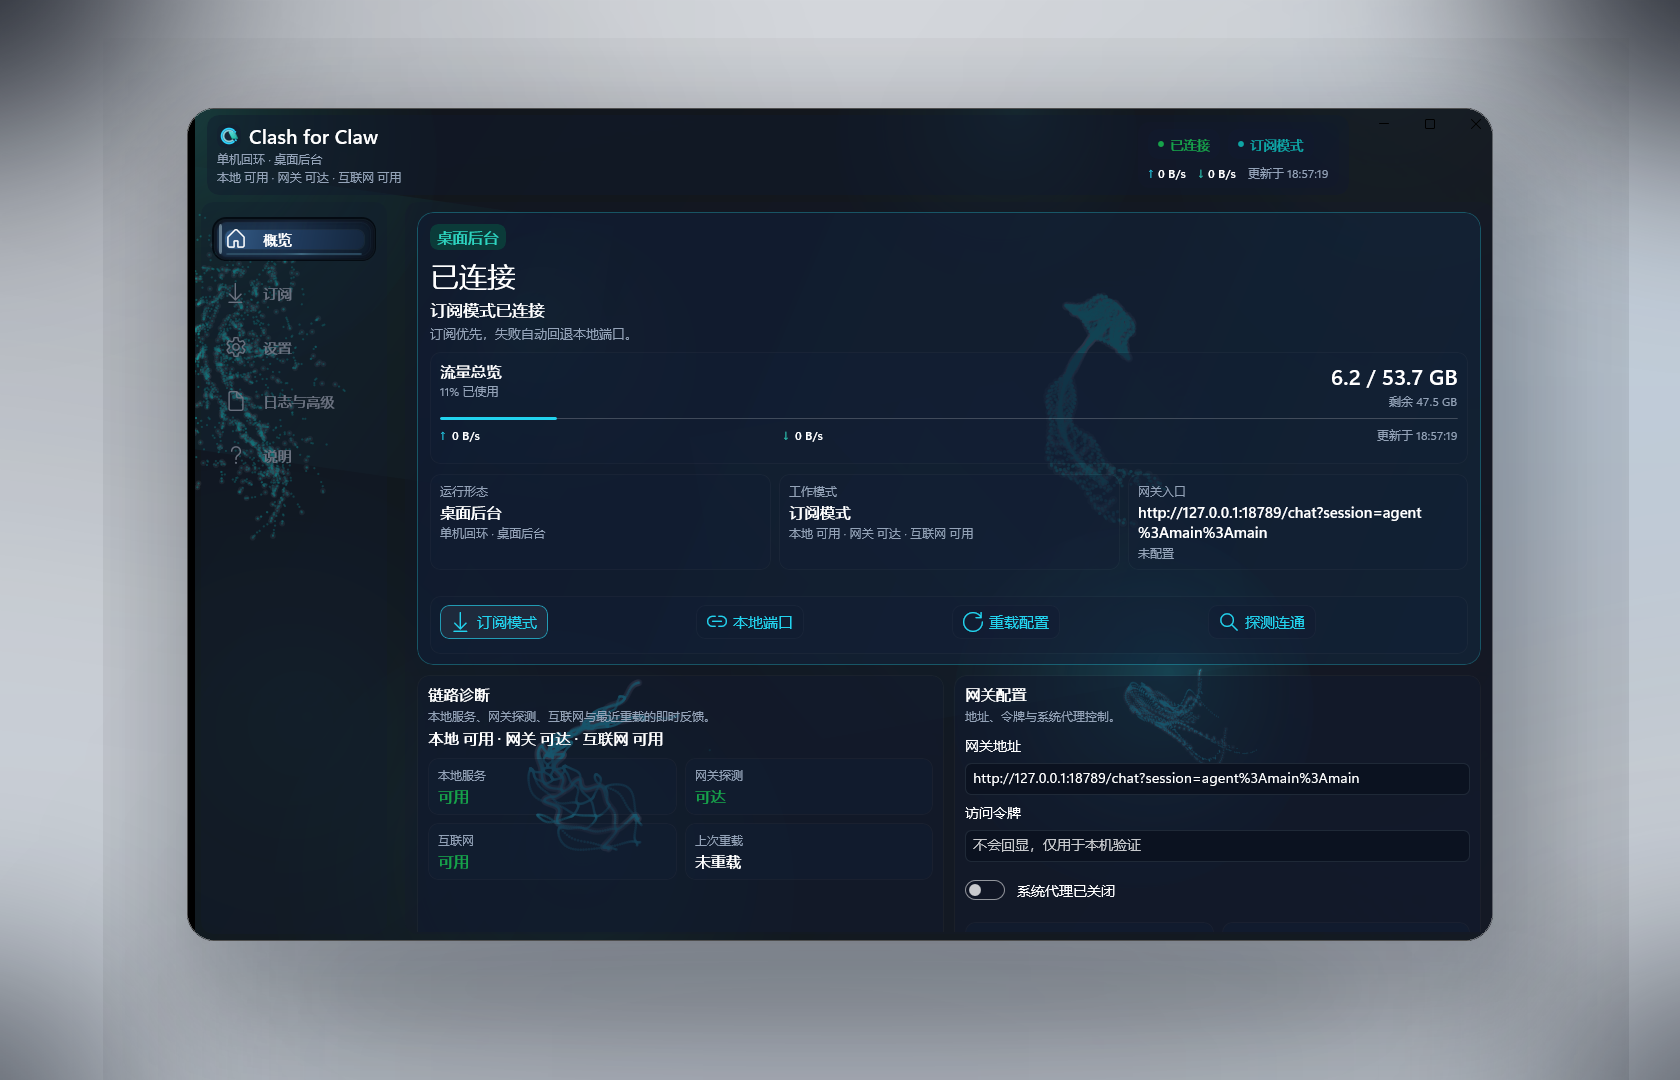
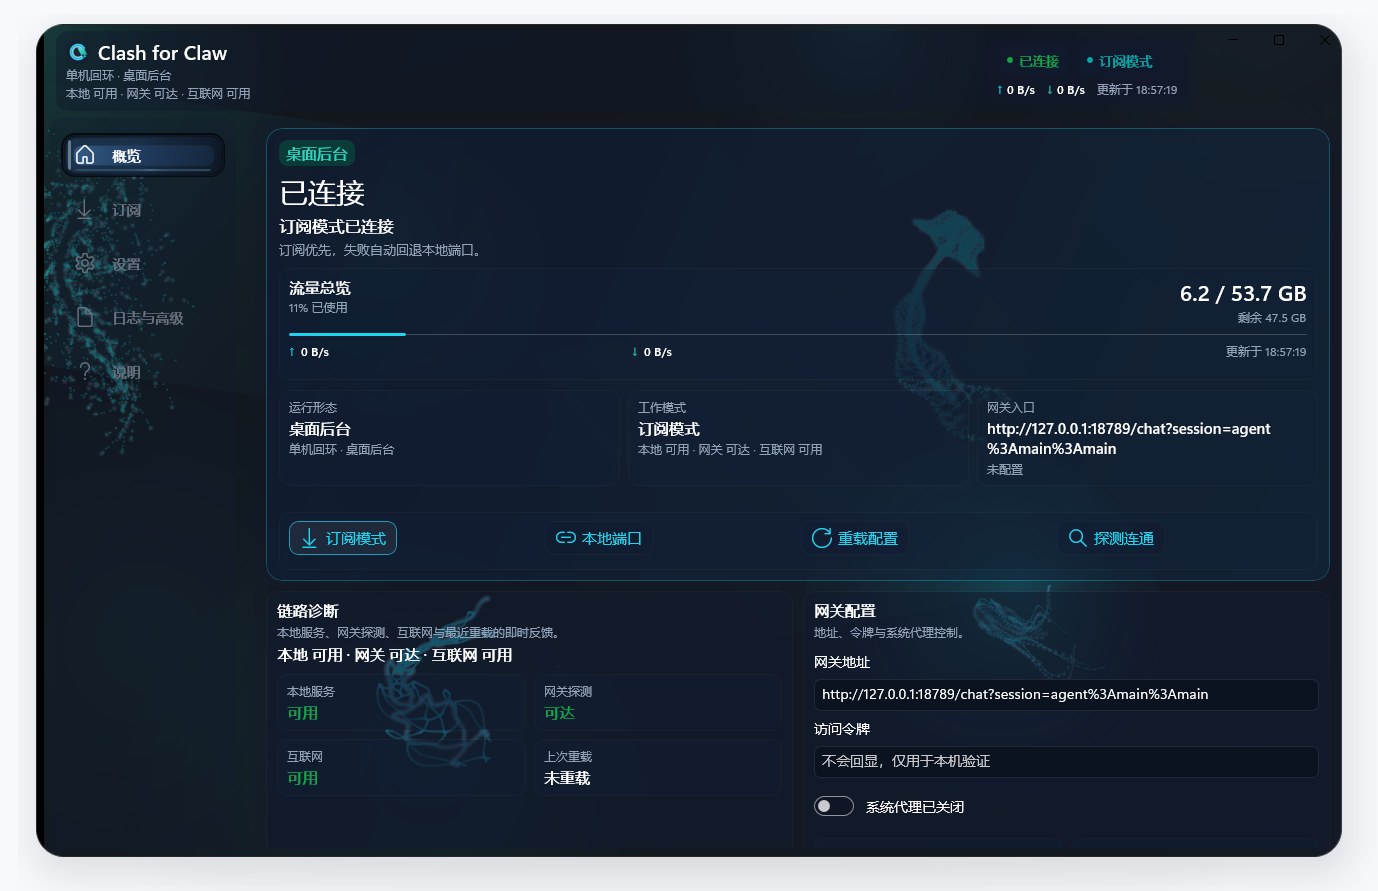
Refine README presentation

diff --git a/scripts/build-readme-hero.py b/scripts/build-readme-hero.py
@@ -1,13 +1,15 @@
 from pathlib import Path
 
-from PIL import Image, ImageChops, ImageDraw, ImageFilter
+from PIL import Image, ImageDraw, ImageFilter
 
 
 REPO_ROOT = Path(__file__).resolve().parent.parent
 SOURCE = REPO_ROOT / "artifacts" / "readme-window-raw.png"
 TARGET = REPO_ROOT / "docs" / "readme-hero.png"
-CANVAS_SIZE = (1680, 1080)
 WINDOW_RADIUS = 28
+SIDE_MARGIN = 36
+TOP_MARGIN = 24
+BOTTOM_MARGIN = 34
 
 
 def rounded_mask(size: tuple[int, int], radius: int, scale: int = 4) -> Image.Image:
@@ -16,58 +18,6 @@ def rounded_mask(size: tuple[int, int], radius: int, scale: int = 4) -> Image.Im
     draw = ImageDraw.Draw(mask)
     draw.rounded_rectangle((0, 0, mask.width - 1, mask.height - 1), radius=radius * scale, fill=255)
     return mask.resize(size, Image.Resampling.LANCZOS)
-
-
-def gradient_background(size: tuple[int, int]) -> Image.Image:
-    width, height = size
-    base = Image.new("RGBA", size, "#f4f7fb")
-
-    top = Image.new("RGBA", size, (0, 0, 0, 0))
-    top_pixels = top.load()
-    for y in range(height):
-        ratio = y / max(height - 1, 1)
-        r = int(244 - (ratio * 18))
-        g = int(247 - (ratio * 14))
-        b = int(251 - (ratio * 10))
-        for x in range(width):
-            top_pixels[x, y] = (r, g, b, 255)
-
-    base = Image.alpha_composite(base, top)
-
-    for bbox, color, blur in [
-        ((-120, -40, 640, 520), (16, 24, 40, 32), 120),
-        ((1040, 40, 1760, 760), (24, 144, 255, 20), 140),
-        ((240, 700, 1340, 1260), (15, 23, 42, 16), 150),
-    ]:
-        layer = Image.new("RGBA", size, (0, 0, 0, 0))
-        draw = ImageDraw.Draw(layer)
-        draw.ellipse(bbox, fill=color)
-        base = Image.alpha_composite(base, layer.filter(ImageFilter.GaussianBlur(blur)))
-
-    vignette = Image.new("L", size, 0)
-    draw = ImageDraw.Draw(vignette)
-    draw.ellipse((-200, -160, width + 200, height + 220), fill=220)
-    vignette = ImageChops.invert(vignette).filter(ImageFilter.GaussianBlur(100))
-    shade = Image.new("RGBA", size, (8, 12, 22, 34))
-    base = Image.composite(shade, base, vignette)
-    return base
-
-
-def layered_shadow(window_size: tuple[int, int], radius: int) -> Image.Image:
-    shadow_canvas = Image.new("RGBA", (window_size[0] + 220, window_size[1] + 220), (0, 0, 0, 0))
-
-    for offset, color, blur, spread in [
-        ((80, 96), (9, 15, 26, 44), 48, 46),
-        ((86, 104), (9, 15, 26, 26), 82, 78),
-        ((84, 136), (9, 15, 26, 14), 120, 132),
-    ]:
-        mask = rounded_mask((window_size[0] + spread, window_size[1] + spread), radius + (spread // 8))
-        layer = Image.new("RGBA", mask.size, color)
-        pasted = Image.new("RGBA", shadow_canvas.size, (0, 0, 0, 0))
-        pasted.paste(layer, offset, mask)
-        shadow_canvas = Image.alpha_composite(shadow_canvas, pasted.filter(ImageFilter.GaussianBlur(blur)))
-
-    return shadow_canvas
 
 
 def build_window_card(window: Image.Image) -> Image.Image:
@@ -80,34 +30,54 @@ def build_window_card(window: Image.Image) -> Image.Image:
     draw.rounded_rectangle(
         (0, 0, window.size[0] - 1, window.size[1] - 1),
         radius=WINDOW_RADIUS,
-        outline=(255, 255, 255, 78),
+        outline=(255, 255, 255, 40),
         width=1,
     )
-
     return Image.alpha_composite(clipped, frame)
+
+
+def build_shadow(window_size: tuple[int, int], radius: int) -> Image.Image:
+    shadow_canvas = Image.new("RGBA", (window_size[0] + 72, window_size[1] + 72), (0, 0, 0, 0))
+
+    for offset, color, blur, spread in [
+        ((16, 18), (8, 12, 20, 18), 14, 10),
+        ((16, 18), (8, 12, 20, 8), 24, 24),
+    ]:
+        mask = rounded_mask((window_size[0] + spread, window_size[1] + spread), radius + 2)
+        layer = Image.new("RGBA", mask.size, color)
+        pasted = Image.new("RGBA", shadow_canvas.size, (0, 0, 0, 0))
+        pasted.paste(layer, offset, mask)
+        shadow_canvas = Image.alpha_composite(shadow_canvas, pasted.filter(ImageFilter.GaussianBlur(blur)))
+
+    return shadow_canvas
 
 
 def main() -> None:
     if not SOURCE.exists():
         raise FileNotFoundError(f"raw capture not found: {SOURCE}")
 
-    canvas = gradient_background(CANVAS_SIZE)
     window = Image.open(SOURCE).convert("RGBA")
+    canvas_size = (
+        window.size[0] + (SIDE_MARGIN * 2),
+        window.size[1] + TOP_MARGIN + BOTTOM_MARGIN,
+    )
+    canvas = Image.new("RGBA", canvas_size, (247, 249, 252, 255))
+
     card = build_window_card(window)
+    shadow = build_shadow(window.size, WINDOW_RADIUS)
 
-    x = (CANVAS_SIZE[0] - window.size[0]) // 2
-    y = 108
+    x = SIDE_MARGIN
+    y = TOP_MARGIN
 
-    shadow = layered_shadow(window.size, WINDOW_RADIUS)
-    canvas.alpha_composite(shadow, (x - 84, y - 70))
+    canvas.alpha_composite(shadow, (x - 18, y - 10))
 
-    floor_shadow = Image.new("RGBA", CANVAS_SIZE, (0, 0, 0, 0))
+    floor_shadow = Image.new("RGBA", canvas_size, (0, 0, 0, 0))
     draw = ImageDraw.Draw(floor_shadow)
     draw.ellipse(
-        (x + 120, y + window.size[1] - 10, x + window.size[0] - 120, y + window.size[1] + 104),
-        fill=(12, 18, 28, 22),
+        (x + 110, y + window.size[1] - 2, x + window.size[0] - 110, y + window.size[1] + 28),
+        fill=(10, 14, 22, 10),
     )
-    floor_shadow = floor_shadow.filter(ImageFilter.GaussianBlur(34))
+    floor_shadow = floor_shadow.filter(ImageFilter.GaussianBlur(14))
     canvas = Image.alpha_composite(canvas, floor_shadow)
 
     canvas.alpha_composite(card, (x, y))

diff --git a/README.md b/README.md
@@ -3,8 +3,8 @@
 <div align="center">
   <img src="Assets/ClashForClaw-icon-preview.png" alt="Clash for Claw icon" width="88" />
 
-  <p><strong>给 OpenClaw / Claw 准备的本地代理控制端</strong></p>
-  <p>下载一个安装包，填几项必要参数，就能把订阅入口、后台驻留和状态可视化收进一个 Windows 应用里。</p>
+  <p><strong>面向 OpenClaw / Claw 链路的本地代理控制端</strong></p>
+  <p>将订阅入口、后台驻留和链路状态收拢到一个可直接交付的 Windows 安装程序中。</p>
 
   <p>
     <a href="https://github.com/KeyanHu-git/Clash-for-Claw/releases">
@@ -22,68 +22,82 @@
   <img src="docs/readme-hero.png" alt="Clash for Claw overview" width="920" />
 </p>
 
-## 怎么下载
+## 发布形式
 
-- 普通用户直接去 [Releases](https://github.com/KeyanHu-git/Clash-for-Claw/releases) 下载 `Clash-for-Claw-x.y.z-setup.exe`
-- 正式交付物就是安装版 `.exe`，不是让用户自己进文件夹找一堆可执行文件
-- 安装包默认已经带好桌面端、后台组件和 `mihomo.exe`
-- 安装完成后，启动 `Clash for Claw`，按下面几项配置即可开始用
+- 正式发布物为安装版 `Clash-for-Claw-x.y.z-setup.exe`
+- 安装包默认包含桌面端、后台组件与 `mihomo.exe`
+- `portable.zip` 仅保留给手动部署或调试场景
 
 当前公开版本：[`v0.1.2`](https://github.com/KeyanHu-git/Clash-for-Claw/releases/tag/v0.1.2)
 
-## 第一次启动要配什么
+## 为什么做这个事情
 
-第一次使用，通常只需要看 3 组参数：
+OpenClaw / Claw 在 Windows 环境中运行时，链路稳定性往往不取决于模型本身，而取决于宿主机是否具备一个长期可用、可观察、可维护的本地代理入口。
+
+如果这一层缺失，常见问题会混在一起出现：
+
+- 订阅入口与本地端口切换缺少统一控制
+- 后台驻留、开机启动和静默运行缺少稳定承载
+- 网关可达性、互联网连通性和流量状态缺少直观反馈
+
+`Clash for Claw` 的定位不是修改 OpenClaw 仓库本身，而是在其外部提供一层独立的本地控制面：
+
+- 前台负责配置、状态确认和可视化反馈
+- 后台负责静默运行、驻留和服务化
+- 代理入口与 OpenClaw 仓库保持解耦，便于后续独立更新
+
+## 首次配置
+
+首次启动通常只需要完成 3 组参数：
 
 1. `网关地址`
    OpenClaw / Claw 网关地址。  
-   如果网关就在本机，通常可先试 `http://127.0.0.1:18789`。
+   如果网关就在本机，通常可以先试 `http://127.0.0.1:18789`。
 
 2. `访问令牌`
-   用于访问网关的令牌。  
-   如果你的 OpenClaw 侧启用了鉴权，把对应 token 粘贴进来即可。
+   网关鉴权令牌。  
+   如果 OpenClaw 侧启用了鉴权，将对应 token 粘贴到此处即可。
 
 3. `入口模式`
    二选一即可：
    - `订阅模式`：在“订阅”页粘贴订阅 URL，这是默认推荐方式
-   - `本地端口`：如果你本机已经有现成代理入口，就在“设置”里填本地端口，默认是 `7890`
+   - `本地端口`：如果本机已经存在现成代理入口，可在“设置”页填写本地端口，默认是 `7890`
 
-## 最短上手流程
+## 快速接入
 
-1. 安装并启动 `Clash for Claw`
-2. 在首页填好 `网关地址` 和 `访问令牌`
-3. 打开“订阅”页，粘贴订阅 URL
-4. 点击“下载订阅”，再切回订阅模式
-5. 首页看到“本地可用 / 网关可达 / 互联网可用”后，就说明链路已经通了
+1. 下载并安装 `setup.exe`
+2. 启动 `Clash for Claw`
+3. 在首页填写 `网关地址` 和 `访问令牌`
+4. 打开“订阅”页，粘贴订阅 URL
+5. 点击“下载订阅”，再切回订阅模式
+6. 首页出现“本地可用 / 网关可达 / 互联网可用”后，即表示链路已经连通
 
-## 订阅一般怎么买
+## 订阅来源
 
-一般不是在这个项目里买，而是去购买一个明确支持 `Clash` / `Mihomo` 订阅链接的代理服务。
+本项目不提供订阅服务。接入订阅模式时，需要准备一条支持 `Clash` / `Mihomo` 的订阅 URL。
 
-购买前建议至少确认这几件事：
+获取订阅时，建议至少确认以下事项：
 
-- 对方能提供可直接粘贴的 `Clash` / `Mihomo` 订阅 URL
-- 节点地区、流量额度、有效期是不是符合你的使用场景
-- 订阅更新是否稳定，售后和失效处理是否清楚
-- 支付方式、退款规则和风险说明是否透明
+- 可提供直接导入的 `Clash` / `Mihomo` 订阅链接
+- 节点地区、流量额度、有效期与实际场景匹配
+- 订阅更新策略清晰且稳定
+- 支付方式、售后规则和风险说明透明
 
 拿到订阅链接后，直接粘贴到“订阅”页即可，一行一个。
 
-## 这个软件默认帮你做了什么
+## 运行边界
 
-- 默认优先走订阅模式，失败时可回退到本地端口
-- 默认绑定 `127.0.0.1`，不会强行改写你整台机器的系统级全局代理
+- 默认工作流围绕本地入口构建，不要求改写整机网络出口
+- 默认监听 `127.0.0.1`
 - 支持后台驻留、开机自启、静默启动和服务模式
-- 配置、日志和状态都保存在本地，敏感值不回显
+- 配置、日志与状态信息均保存在本地
 
 补充说明：
 
-- 在 Docker Desktop 环境里，`host.docker.internal` 仍可能访问宿主机 loopback 端口，所以这不是“容器完全不可见”的物理隔离
-- 如果当前网络无法访问 GitHub，也可以手动把 `mihomo.exe` 放到应用目录下的 `bin` 中
+- 在 Docker Desktop 环境中，`host.docker.internal` 仍可能访问宿主机 loopback 端口，因此这不是物理隔离
+- 如果当前网络无法访问 GitHub，也可以手动将 `mihomo.exe` 放到应用目录下的 `bin` 中
 
-## 给开发者
-
-如果你是自己构建：
+## 构建
 
 ```powershell
 git clone https://github.com/KeyanHu-git/Clash-for-Claw.git
@@ -112,8 +126,6 @@ powershell -NoProfile -ExecutionPolicy Bypass -File .\scripts\build-installer.ps
 - 数字生命背景动效参考：Shelter / MrIShelter，《一起赛博摸鱼吧——数学公式下的生命构型与动态》  
   来源：[和鲸社区](https://www.heywhale.com/mw/project/687e3f38c678037e34ebf61e)
 
-## 支持一下
-
-如果这个项目对你有帮助，欢迎点个 Star：
+## 支持
 
 - https://github.com/KeyanHu-git/Clash-for-Claw

diff --git a/RELEASE_NOTES_v0.1.2.md b/RELEASE_NOTES_v0.1.2.md
@@ -5,7 +5,8 @@
 - Simplified release packaging to a single user-facing self-contained build.
 - Kept the bundled `mihomo.exe` path as the default release behavior so subscription mode works immediately after install.
 - Reworked the README screenshot pipeline to separate raw window capture from final presentation rendering.
-- Refined the README around the real end-user flow: download the installer `.exe`, fill the required parameters, then import a subscription.
+- Refined the README around the real installation flow, configuration entry points, and subscription onboarding.
+- Reduced the README hero image treatment to a lighter, more restrained presentation with minimal shadow.
 
 ## Files
 
